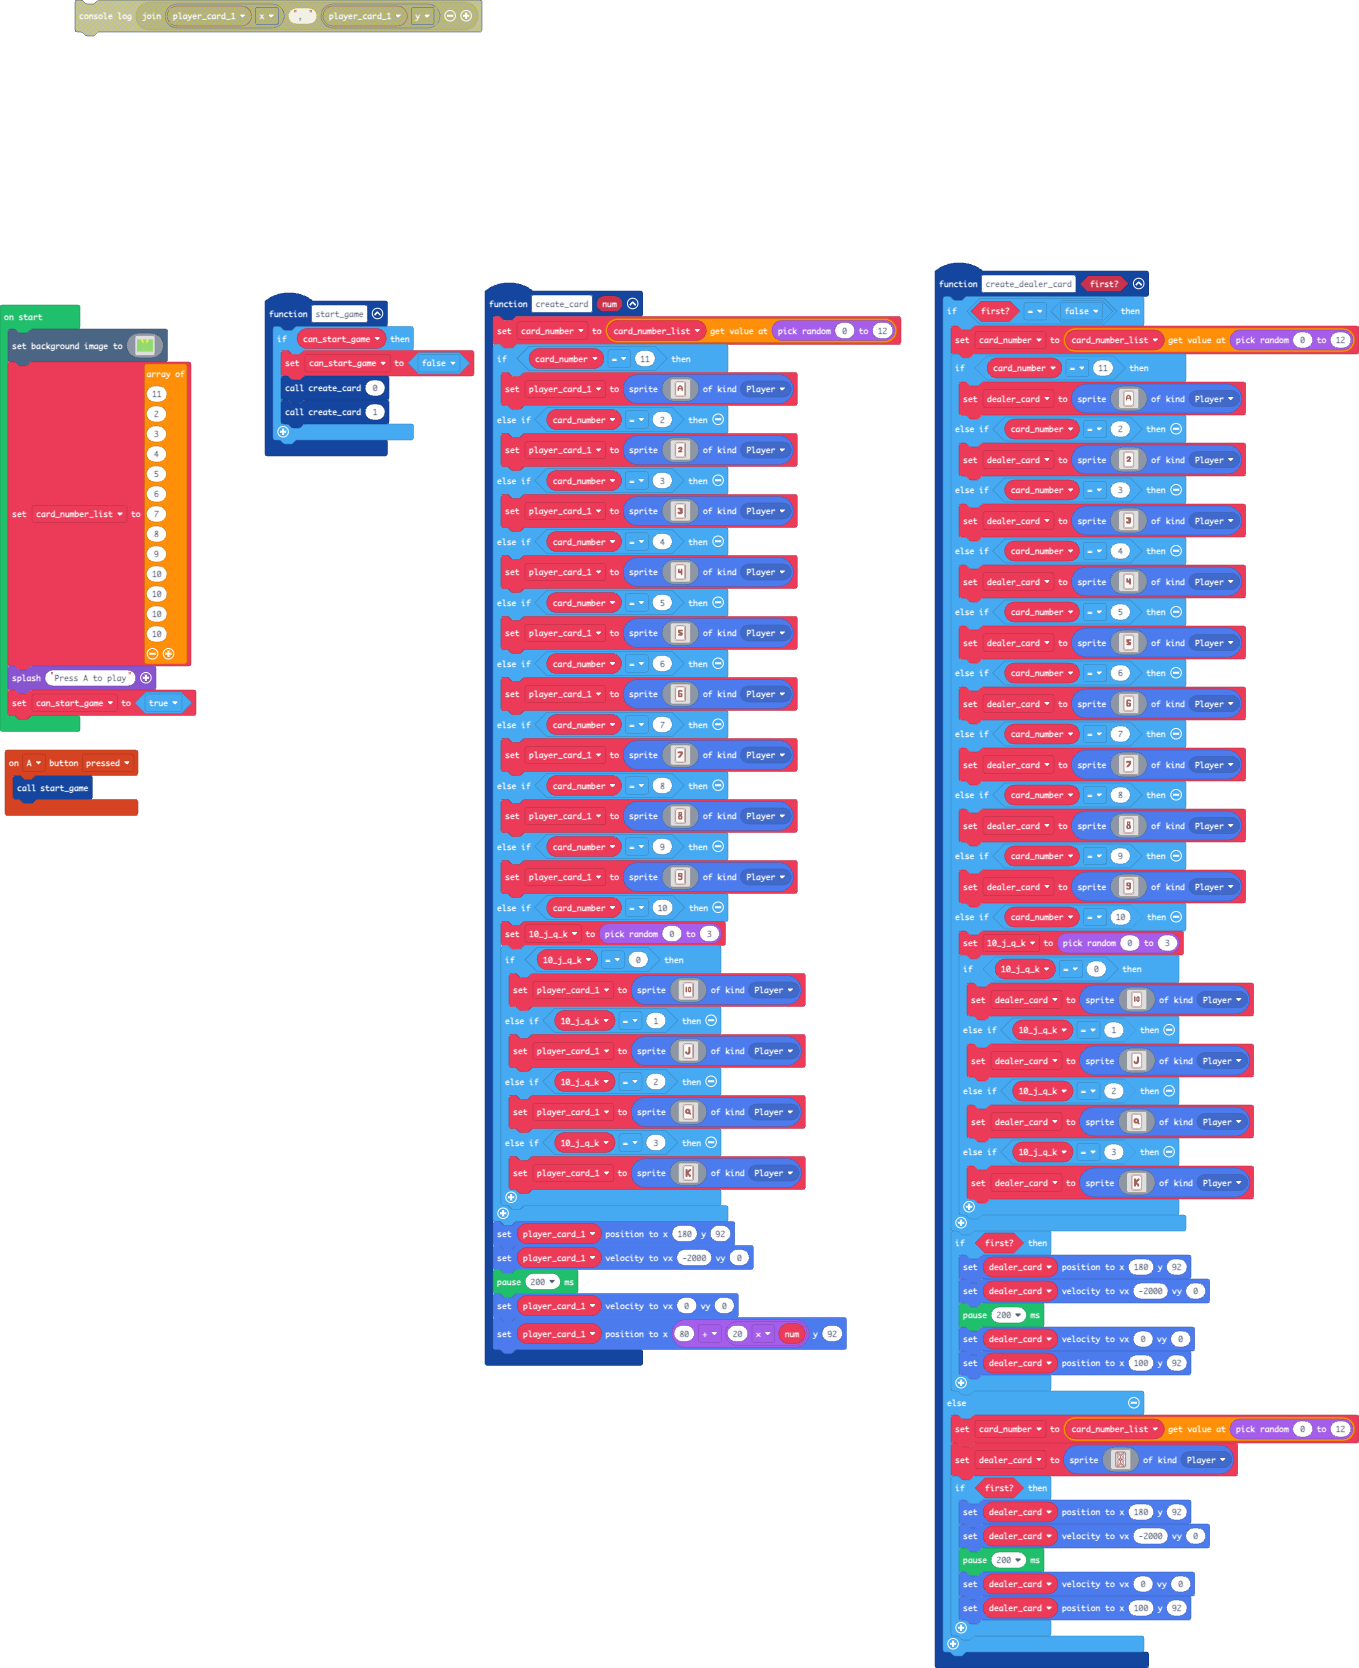
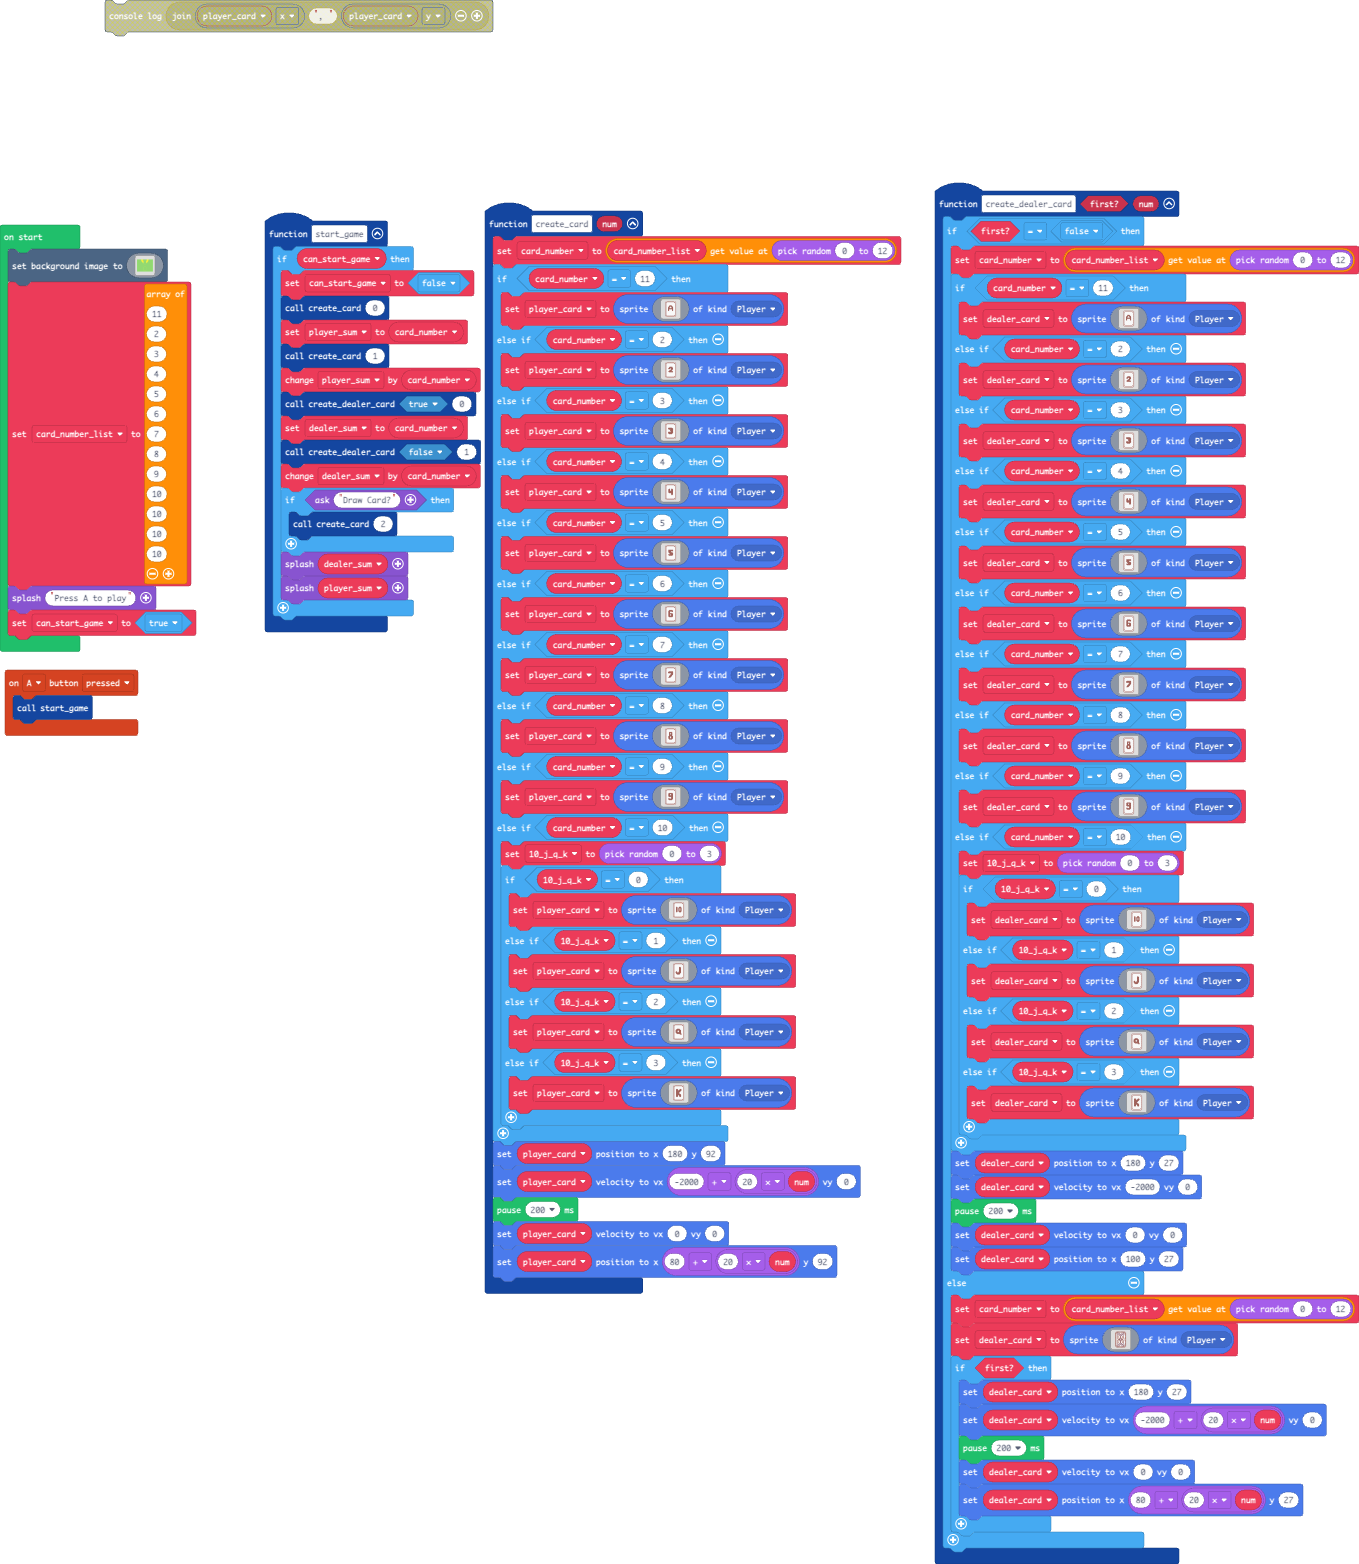
Update main.blocks, main.ts

diff --git a/main.ts b/main.ts
@@ -1,4 +1,4 @@
-function create_dealer_card (first: boolean) {
+function create_dealer_card (first: boolean, num: number) {
     if (first == false) {
         card_number = card_number_list[randint(0, 12)]
         if (card_number == 11) {
@@ -564,13 +564,11 @@ function create_dealer_card (first: boolean) {
                     `, SpriteKind.Player)
             }
         }
-        if (first) {
-            dealer_card.setPosition(180, 92)
-            dealer_card.setVelocity(-2000, 0)
-            pause(200)
-            dealer_card.setVelocity(0, 0)
-            dealer_card.setPosition(100, 92)
-        }
+        dealer_card.setPosition(180, 27)
+        dealer_card.setVelocity(-2000, 0)
+        pause(200)
+        dealer_card.setVelocity(0, 0)
+        dealer_card.setPosition(100, 27)
     } else {
         card_number = card_number_list[randint(0, 12)]
         dealer_card = sprites.create(img`
@@ -616,11 +614,11 @@ function create_dealer_card (first: boolean) {
             ...eeeeeeeeeeeeeeeeeeeee...
             `, SpriteKind.Player)
         if (first) {
-            dealer_card.setPosition(180, 92)
-            dealer_card.setVelocity(-2000, 0)
+            dealer_card.setPosition(180, 27)
+            dealer_card.setVelocity(-2000 + 20 * num, 0)
             pause(200)
             dealer_card.setVelocity(0, 0)
-            dealer_card.setPosition(100, 92)
+            dealer_card.setPosition(80 + 20 * num, 27)
         }
     }
 }
@@ -630,7 +628,7 @@ controller.A.onEvent(ControllerButtonEvent.Pressed, function () {
 function create_card (num: number) {
     card_number = card_number_list[randint(0, 12)]
     if (card_number == 11) {
-        player_card_1 = sprites.create(img`
+        player_card = sprites.create(img`
             ...eeeeeeeeeeeeeeeeeeeee...
             ..e111111111111111111111e..
             .e111eeeeeeeeeeeeeeeee111e.
@@ -673,7 +671,7 @@ function create_card (num: number) {
             ...eeeeeeeeeeeeeeeeeeeee...
             `, SpriteKind.Player)
     } else if (card_number == 2) {
-        player_card_1 = sprites.create(img`
+        player_card = sprites.create(img`
             ...eeeeeeeeeeeeeeeeeeeee...
             ..e111111111111111111111e..
             .e111eeeeeeeeeeeeeeeee111e.
@@ -716,7 +714,7 @@ function create_card (num: number) {
             ...eeeeeeeeeeeeeeeeeeeee...
             `, SpriteKind.Player)
     } else if (card_number == 3) {
-        player_card_1 = sprites.create(img`
+        player_card = sprites.create(img`
             ...eeeeeeeeeeeeeeeeeeeee...
             ..e111111111111111111111e..
             .e111eeeeeeeeeeeeeeeee111e.
@@ -759,7 +757,7 @@ function create_card (num: number) {
             ...eeeeeeeeeeeeeeeeeeeee...
             `, SpriteKind.Player)
     } else if (card_number == 4) {
-        player_card_1 = sprites.create(img`
+        player_card = sprites.create(img`
             ...eeeeeeeeeeeeeeeeeeeee...
             ..e111111111111111111111e..
             .e111eeeeeeeeeeeeeeeee111e.
@@ -802,7 +800,7 @@ function create_card (num: number) {
             ...eeeeeeeeeeeeeeeeeeeee...
             `, SpriteKind.Player)
     } else if (card_number == 5) {
-        player_card_1 = sprites.create(img`
+        player_card = sprites.create(img`
             ...eeeeeeeeeeeeeeeeeeeee...
             ..e111111111111111111111e..
             .e111eeeeeeeeeeeeeeeee111e.
@@ -845,7 +843,7 @@ function create_card (num: number) {
             ...eeeeeeeeeeeeeeeeeeeee...
             `, SpriteKind.Player)
     } else if (card_number == 6) {
-        player_card_1 = sprites.create(img`
+        player_card = sprites.create(img`
             ...eeeeeeeeeeeeeeeeeeeee...
             ..e111111111111111111111e..
             .e111eeeeeeeeeeeeeeeee111e.
@@ -888,7 +886,7 @@ function create_card (num: number) {
             ...eeeeeeeeeeeeeeeeeeeee...
             `, SpriteKind.Player)
     } else if (card_number == 7) {
-        player_card_1 = sprites.create(img`
+        player_card = sprites.create(img`
             ...eeeeeeeeeeeeeeeeeeeee...
             ..e111111111111111111111e..
             .e111eeeeeeeeeeeeeeeee111e.
@@ -931,7 +929,7 @@ function create_card (num: number) {
             ...eeeeeeeeeeeeeeeeeeeee...
             `, SpriteKind.Player)
     } else if (card_number == 8) {
-        player_card_1 = sprites.create(img`
+        player_card = sprites.create(img`
             ...eeeeeeeeeeeeeeeeeeeee...
             ..e111111111111111111111e..
             .e111eeeeeeeeeeeeeeeee111e.
@@ -974,7 +972,7 @@ function create_card (num: number) {
             ...eeeeeeeeeeeeeeeeeeeee...
             `, SpriteKind.Player)
     } else if (card_number == 9) {
-        player_card_1 = sprites.create(img`
+        player_card = sprites.create(img`
             ...eeeeeeeeeeeeeeeeeeeee...
             ..e111111111111111111111e..
             .e111eeeeeeeeeeeeeeeee111e.
@@ -1019,7 +1017,7 @@ function create_card (num: number) {
     } else if (card_number == 10) {
         _10_j_q_k = randint(0, 3)
         if (_10_j_q_k == 0) {
-            player_card_1 = sprites.create(img`
+            player_card = sprites.create(img`
                 ...eeeeeeeeeeeeeeeeeeeee...
                 ..e111111111111111111111e..
                 .e111eeeeeeeeeeeeeeeee111e.
@@ -1062,7 +1060,7 @@ function create_card (num: number) {
                 ...eeeeeeeeeeeeeeeeeeeee...
                 `, SpriteKind.Player)
         } else if (_10_j_q_k == 1) {
-            player_card_1 = sprites.create(img`
+            player_card = sprites.create(img`
                 ...eeeeeeeeeeeeeeeeeeeee...
                 ..e111111111111111111111e..
                 .e111eeeeeeeeeeeeeeeee111e.
@@ -1105,7 +1103,7 @@ function create_card (num: number) {
                 ...eeeeeeeeeeeeeeeeeeeee...
                 `, SpriteKind.Player)
         } else if (_10_j_q_k == 2) {
-            player_card_1 = sprites.create(img`
+            player_card = sprites.create(img`
                 ...eeeeeeeeeeeeeeeeeeeee...
                 ..e111111111111111111111e..
                 .e111eeeeeeeeeeeeeeeee111e.
@@ -1148,7 +1146,7 @@ function create_card (num: number) {
                 ...eeeeeeeeeeeeeeeeeeeee...
                 `, SpriteKind.Player)
         } else if (_10_j_q_k == 3) {
-            player_card_1 = sprites.create(img`
+            player_card = sprites.create(img`
                 ...eeeeeeeeeeeeeeeeeeeee...
                 ..e111111111111111111111e..
                 .e111eeeeeeeeeeeeeeeee111e.
@@ -1192,20 +1190,33 @@ function create_card (num: number) {
                 `, SpriteKind.Player)
         }
     }
-    player_card_1.setPosition(180, 92)
-    player_card_1.setVelocity(-2000, 0)
+    player_card.setPosition(180, 92)
+    player_card.setVelocity(-2000 + 20 * num, 0)
     pause(200)
-    player_card_1.setVelocity(0, 0)
-    player_card_1.setPosition(80 + 20 * num, 92)
+    player_card.setVelocity(0, 0)
+    player_card.setPosition(80 + 20 * num, 92)
 }
 function start_game () {
     if (can_start_game) {
         can_start_game = false
         create_card(0)
+        player_sum = card_number
         create_card(1)
+        player_sum += card_number
+        create_dealer_card(true, 0)
+        dealer_sum = card_number
+        create_dealer_card(false, 1)
+        dealer_sum += card_number
+        if (game.ask("Draw Card?")) {
+            create_card(2)
+        }
+        game.splash(dealer_sum)
+        game.splash(player_sum)
     }
 }
-let player_card_1: Sprite = null
+let dealer_sum = 0
+let player_sum = 0
+let player_card: Sprite = null
 let _10_j_q_k = 0
 let dealer_card: Sprite = null
 let card_number = 0
